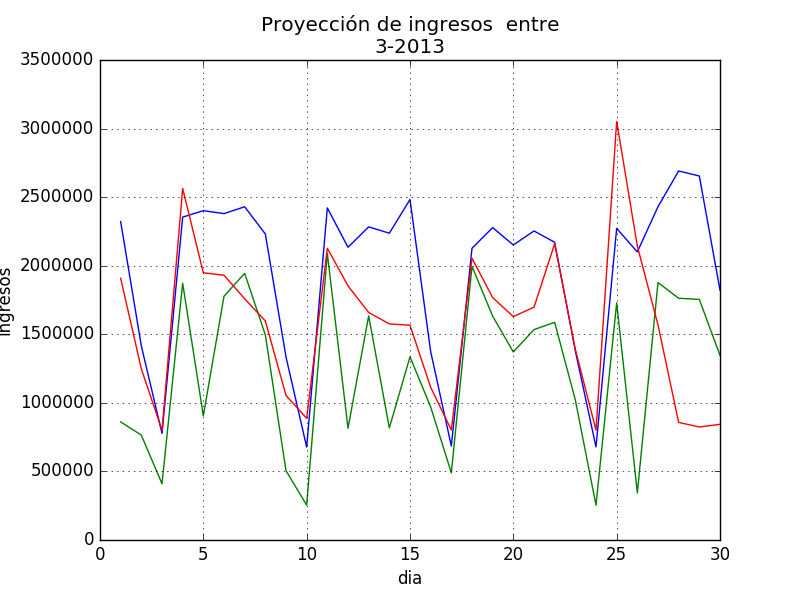
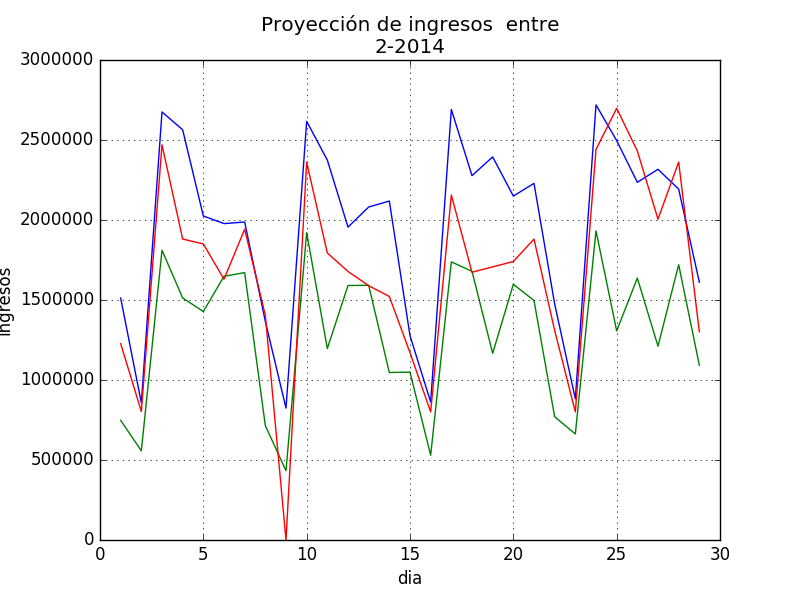
:1234:

diff --git a/mn_p1/src/recursos python/predictor_mes2.0.py b/mn_p1/src/recursos python/predictor_mes2.0.py
@@ -50,10 +50,10 @@ f_proy=datetime.strptime(f_proy,"%Y-%m-%d").date()
 
 inf.close()
 
-meses_atras=6
+meses_atras=12
 
 #fecha de inicio
-dia=1
+dia=12
 mes=f_proy.month-meses_atras
 anio=f_proy.year
 if (mes<=0):
@@ -225,7 +225,7 @@ try:
     plot(range(1,len(resultado1)+1),resultado1)
     plot(range(1,len(resultado2)+1),resultado2)    
     plot(range(1,len(resultado2)+1),y2)
-
+    print(np.corrcoef(y2,resultado))
     
     
     
